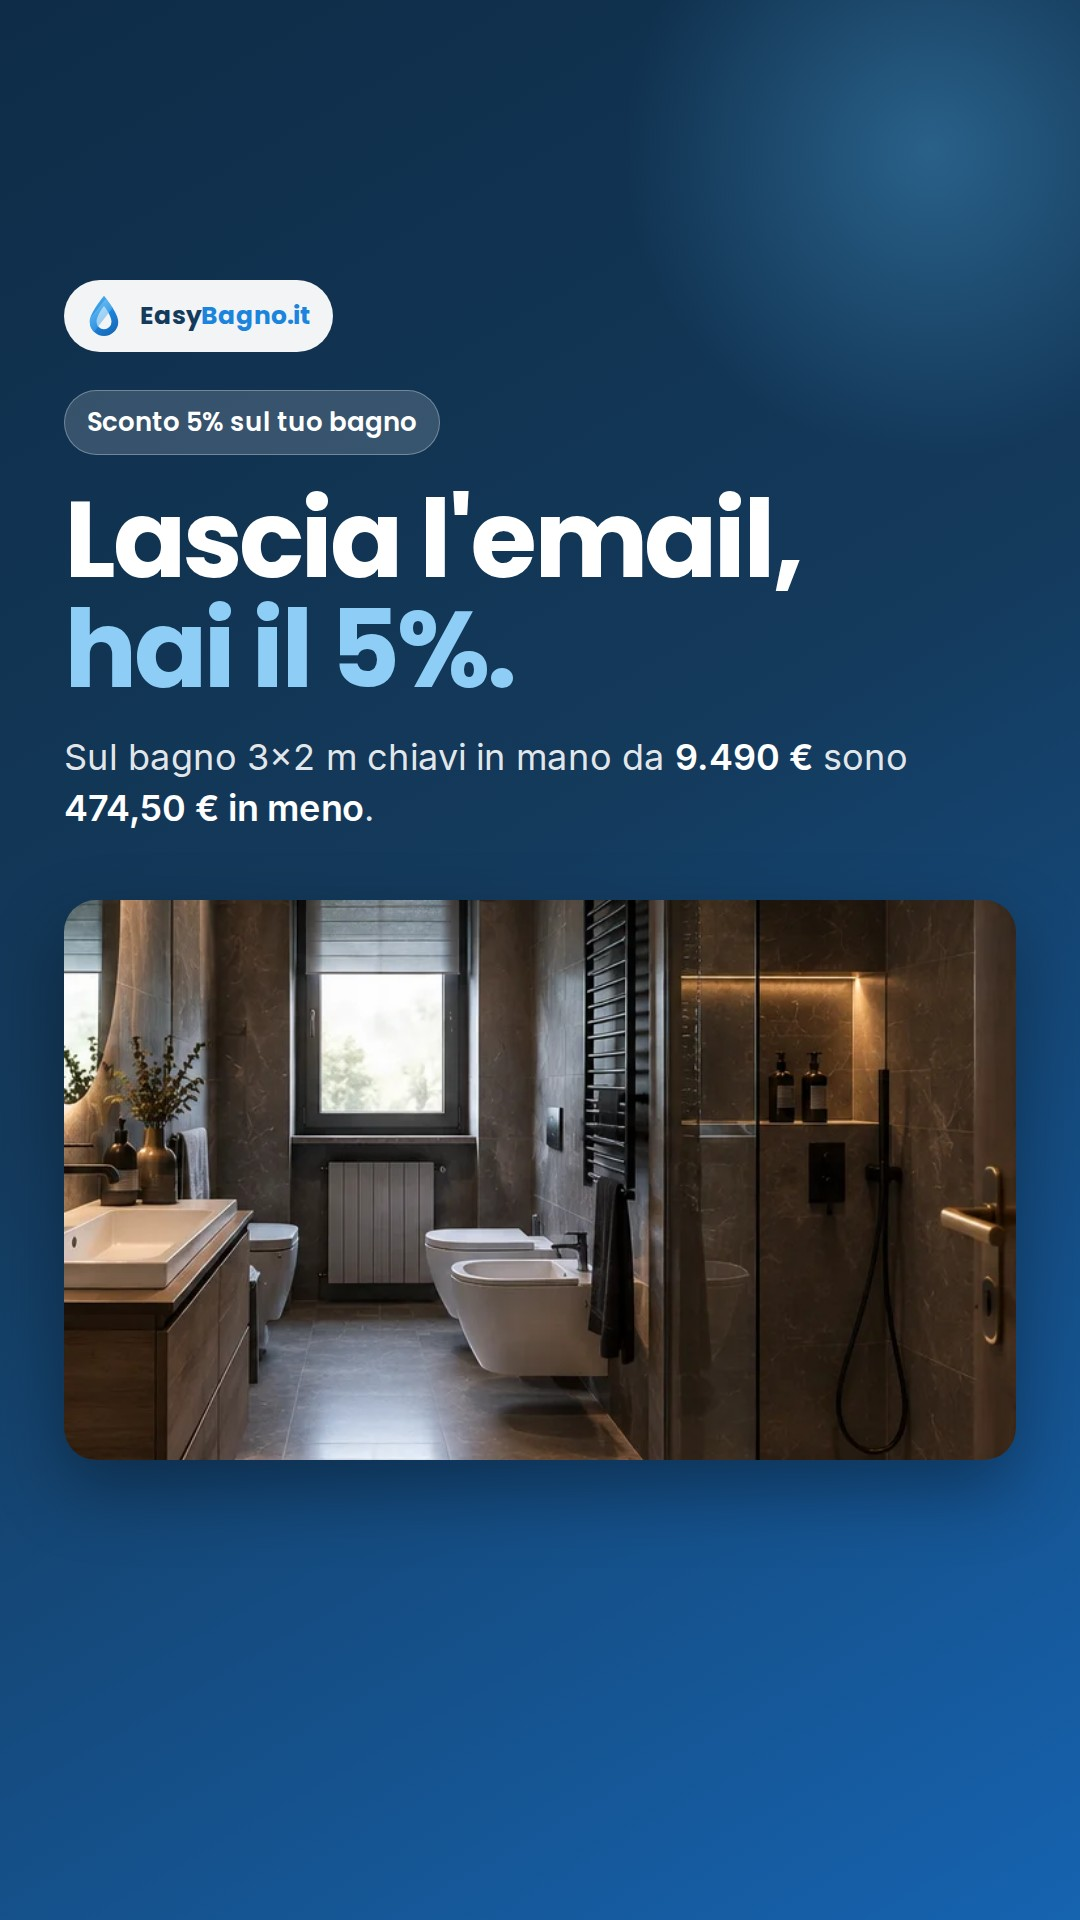
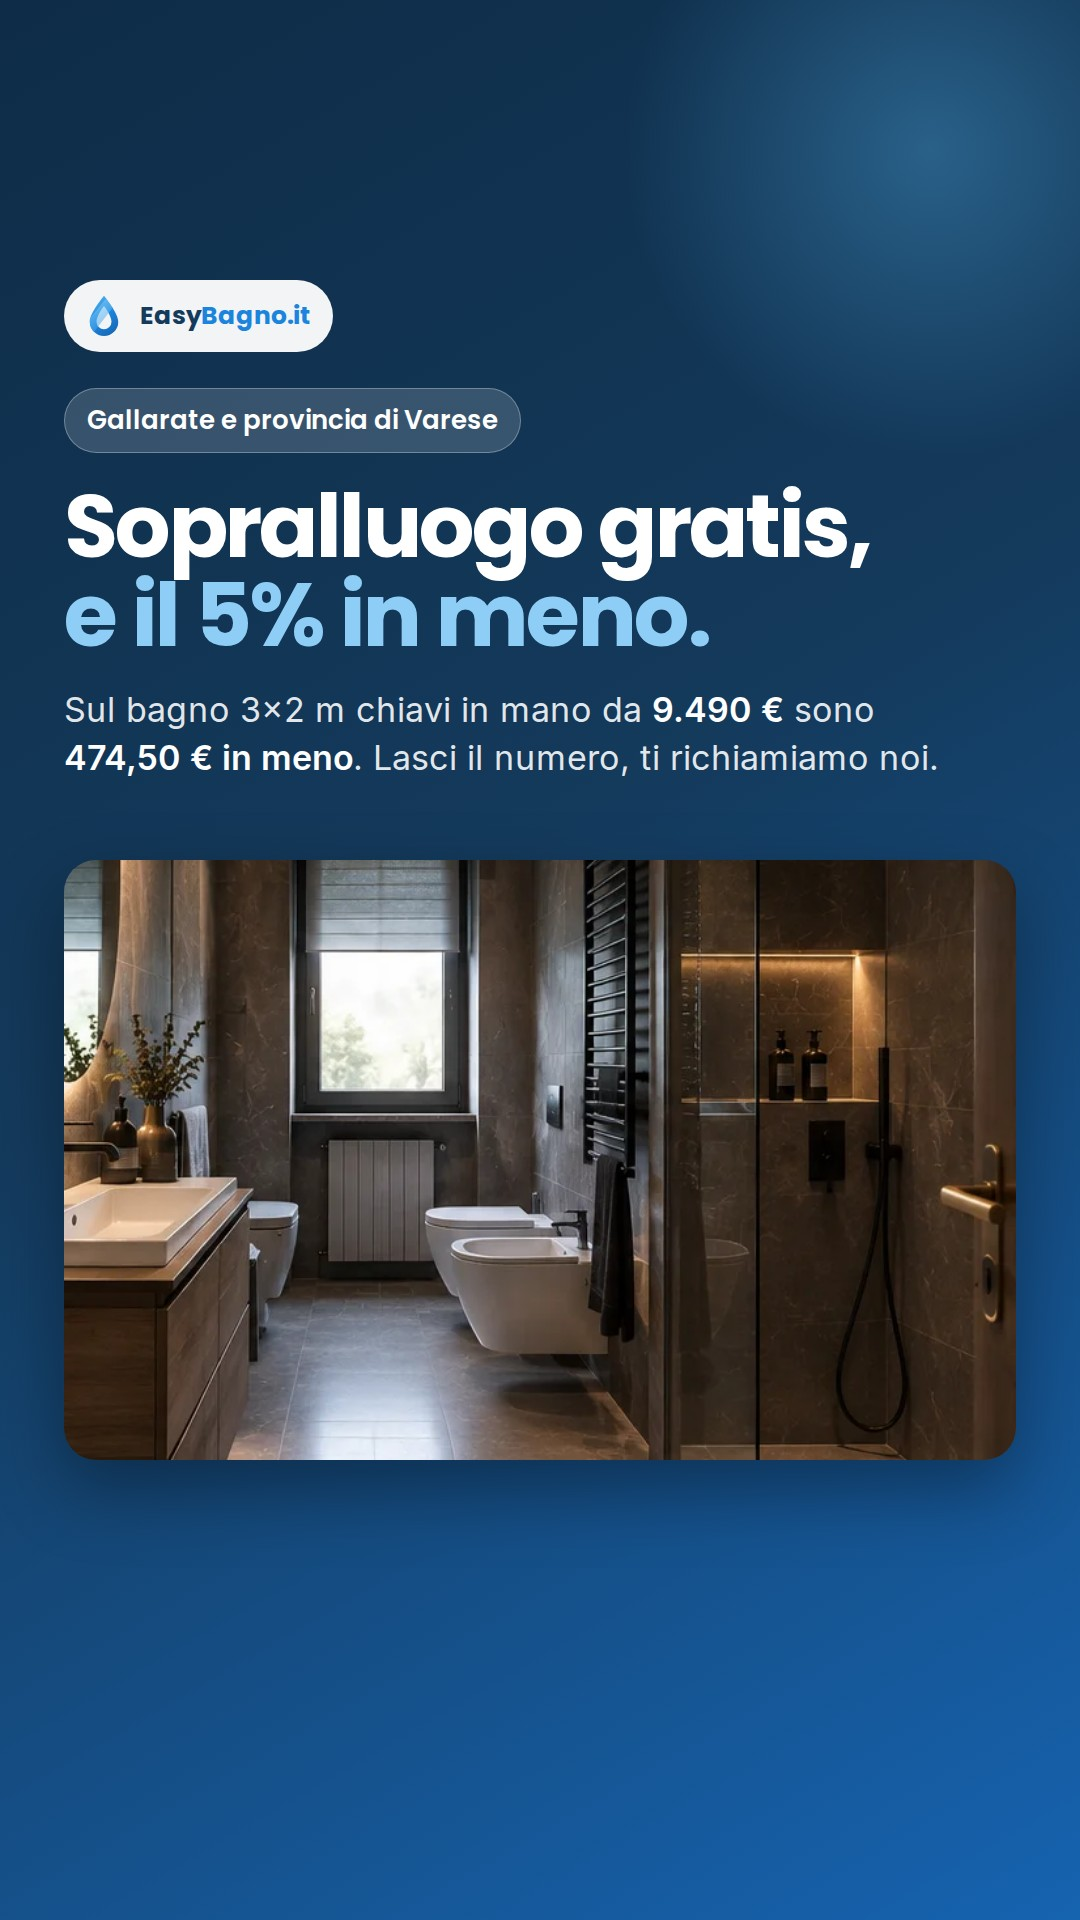
Campagna: 350 € al mese, Lead = richiesta di sopralluogo, annuncio C rifatto
Budget a 11,50 € al giorno. L'evento di conversione resta Lead, che ora e'
solo la richiesta di sopralluogo; l'email per lo sconto e' CompleteRegistration.
Su Meta il pubblico "Iscritti sconto" segue il nuovo evento ed e' nato
"Richieste sopralluogo 180 giorni", da escludere e da usare come base dei
pubblici simili.

L'annuncio C diceva "Lascia l'email, hai il 5%": avrebbe portato iscrizioni
che la campagna non conta. Ora: "Sopralluogo gratis, e il 5% in meno", con la
zona al posto del doppione nell'etichetta e importi che non vanno a capo.

Nel piano anche i due passaggi da fare a mano: notifica email del modulo
"sopralluogo" su Netlify e generate_lead come evento chiave in GA4.

Claude-Session: https://claude.ai/code/session_01QkNUHtLBcA3g5CbHC7uGuN

Changed region(s): [[0.0611, 0.1875, 0.9472, 0.7812], [0.6417, 0.75, 0.825, 0.7812], [0.825, 0.6875, 0.8556, 0.75]]

diff --git a/annunci/CAMPAGNA.md b/annunci/CAMPAGNA.md
@@ -11,6 +11,13 @@ cartella, i testi sono qui sotto, le impostazioni sono già decise.
    (Business Manager → Account → Pagine), più il profilo Instagram se c'è.
 3. **IVA**: sulle grafiche il prezzo è scritto senza la dicitura "IVA inclusa".
    Finché il commercialista non conferma, lascialo così.
+4. **Notifica delle richieste** (2 minuti, una volta sola): su Netlify →
+   progetto → *Project configuration* → *Notifications* → *Emails and
+   webhooks* → *Form submission notifications* → *Add notification* →
+   *Email notification*. Modulo: **sopralluogo**. Email: quella che leggi dal
+   telefono. Da lì ogni richiesta ti arriva in casella appena viene inviata.
+5. **GA4**: in *Amministrazione → Eventi* segna **generate_lead** come evento
+   chiave. È la richiesta di sopralluogo.
 
 ## Impostazioni della campagna
 
@@ -19,19 +26,19 @@ cartella, i testi sono qui sotto, le impostazioni sono già decise.
 | Account | Easybagno (1836403044189994) |
 | Obiettivo | **Contatti** |
 | Nome | EasyBagno · Lead · Bagno 3x2 9.490€ · Gallarate |
-| Budget | **15 € al giorno** a livello di campagna, per le prime due settimane. Poi si decide sui numeri veri. |
+| Budget | **11,50 € al giorno** a livello di campagna = circa **350 € al mese**. Meta in un giorno può spendere un po' di più o di meno, ma sulla settimana resta nella media. |
 | Strategia di offerta | Volume più alto (senza limite di costo) |
 | Luogo della conversione | Sito web |
-| Evento di conversione | **Lead** — Pixel "dati di easybagno" |
+| Evento di conversione | **Lead** — Pixel "dati di easybagno". Dal 28/09/2026 Lead è **solo la richiesta di sopralluogo** (nome, telefono, comune). L'email per lo sconto è un evento diverso (CompleteRegistration) e non conta come risultato. |
 | Zona | Raggio **30 km da Gallarate** (Via Carlo Noè 45) |
 | Età | da 30 anni in su (come suggerimento, con il pubblico Advantage+ attivo) |
-| Escludi | "EasyBagno · Iscritti sconto 180 giorni" e "EasyBagno · Hanno cliccato un contatto 90 giorni": sono persone già arrivate, non si paga per riprenderle |
+| Escludi | "EasyBagno · Richieste sopralluogo 180 giorni", "EasyBagno · Iscritti sconto 180 giorni" e "EasyBagno · Hanno cliccato un contatto 90 giorni": sono persone già arrivate, non si paga per riprenderle |
 | Posizionamenti | Advantage+ (automatici) |
 | DSA — beneficiario e pagatore | BIODOMUS SRLS |
 | Pulsante | **Richiedi preventivo** |
 
 **Indirizzo di destinazione**, uno per inserzione, così in Supabase si vede
-quale annuncio ha portato l'iscritto:
+quale annuncio ha portato la richiesta (colonna *annuncio*):
 
 - A: `https://easybagno.it/?utm_source=facebook&utm_medium=paid&utm_campaign=bagno-3x2&utm_content=A-dopo`
 - B: `https://easybagno.it/?utm_source=facebook&utm_medium=paid&utm_campaign=bagno-3x2&utm_content=B-prima-dopo`
@@ -43,11 +50,12 @@ quale annuncio ha portato l'iscritto:
 |---|---|---|
 | EasyBagno · Visitatori sito 180 giorni | chi ha visitato il sito | retargeting, base per i pubblici simili |
 | EasyBagno · Hanno visto il prezzo 30 giorni | chi è arrivato alla sezione dell'offerta | retargeting: interessati che non hanno scritto |
-| EasyBagno · Iscritti sconto 180 giorni | chi ha lasciato l'email per il 5% | da escludere; base dei pubblici simili |
+| EasyBagno · Richieste sopralluogo 180 giorni | chi ha inviato la richiesta di sopralluogo (evento Lead) | da escludere; **base dei pubblici simili** |
+| EasyBagno · Iscritti sconto 180 giorni | chi ha lasciato solo l'email per il 5% (evento CompleteRegistration) | da escludere |
 | EasyBagno · Hanno cliccato un contatto 90 giorni | clic su telefono, WhatsApp, email | da escludere |
 
-I pubblici simili (lookalike) si creano quando "Iscritti sconto" supera le 100
-persone: prima Meta non ha abbastanza esempi.
+I pubblici simili (lookalike) si creano quando "Richieste sopralluogo" supera le
+100 persone: prima Meta non ha abbastanza esempi.
 
 ## Le tre inserzioni
 
@@ -58,7 +66,7 @@ quale mostrare in base al posizionamento.
 |---|---|---|---|
 | A — Il bagno finito | A-dopo-4x5.jpg | A-dopo-9x16.jpg | A-dopo-1x1.jpg |
 | B — Prima e dopo | B-prima-dopo-4x5.jpg | B-prima-dopo-9x16.jpg | B-prima-dopo-1x1.jpg |
-| C — Sconto 5% | C-sconto-4x5.jpg | C-sconto-9x16.jpg | — |
+| C — Sopralluogo + 5% | C-sconto-4x5.jpg | C-sconto-9x16.jpg | — |
 
 Nei formati 9:16 il 14% in alto e il 35% in basso sono lasciati senza testo:
 lì Instagram e Facebook mettono nome, didascalia e pulsante.
@@ -93,23 +101,30 @@ lì Instagram e Facebook mettono nome, didascalia e pulsante.
 **Titolo:** Il tuo nuovo bagno, senza stress
 **Descrizione:** Prezzo chiuso · 10–15 giorni lavorativi
 
-### C — Sconto 5%
+### C — Sopralluogo gratuito + 5%
 
 **Testo principale**
 
 > Stai pensando di rifare il bagno?
 >
-> Lascia la tua email sul sito: hai il 5% di sconto sul preventivo. Sul bagno 3×2 m chiavi in mano da 9.490 € sono 474,50 € in meno.
+> Richiedi il sopralluogo gratuito sul sito: lasci nome e telefono, ti richiamiamo noi per fissare il giorno. In più hai il 5% di sconto sul preventivo: sul bagno 3×2 m chiavi in mano da 9.490 € sono 474,50 € in meno.
 >
-> Valido 60 giorni dall'iscrizione, sul preventivo firmato dopo il sopralluogo. Gallarate e provincia di Varese.
+> Sconto valido 60 giorni dalla richiesta, sul preventivo firmato dopo il sopralluogo. Gallarate e provincia di Varese.
 
-**Titolo:** -5% sul tuo nuovo bagno
-**Descrizione:** Lascia l'email e blocca lo sconto
+**Titolo:** Sopralluogo gratis e -5% sul bagno
+**Descrizione:** Lasci il numero, ti richiamiamo noi
 
 ## Cosa guardare dopo la prima settimana
 
 - **Costo per Lead** di ciascuna inserzione: quella che costa di più si spegne.
-- **Iscrizioni in Supabase** (tabella `sconti`): la colonna *campagna* e
-  la colonna *fonte* dicono da quale annuncio arrivano.
+  Con 350 € al mese aspetta almeno 10-15 richieste prima di giudicare
+  un'inserzione: con numeri più piccoli è ancora fortuna.
+- **Richieste in Supabase** (vista `richieste`): una riga per richiesta, la più
+  recente in alto. *annuncio* dice quale inserzione l'ha portata, *sconto_5* se
+  lo sconto è ancora valido. Nella tabella `leads` aggiorna la colonna *stato*
+  man mano: Nuovo → Chiamato → Sopralluogo fissato → Preventivo inviato →
+  Firmato / Perso. Dopo un mese sai quante richieste diventano lavori, che è il
+  numero che conta davvero.
+- **Iscritti allo sconto** (vista `sconti`): chi ha lasciato solo l'email.
 - Non toccare budget e pubblico nei primi 5-7 giorni: Meta sta ancora
   imparando e ogni modifica fa ricominciare da capo.
